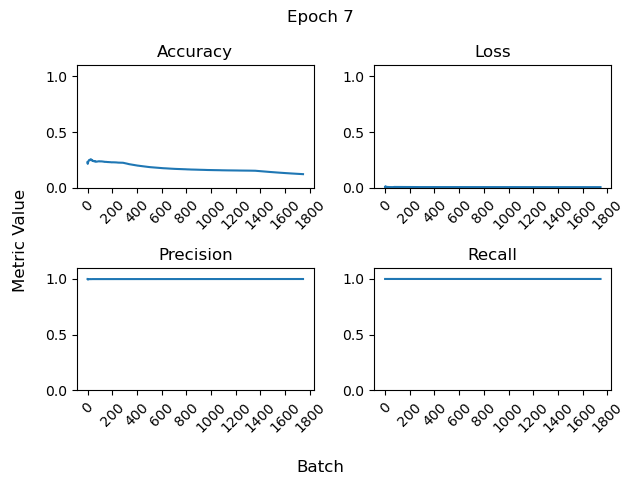
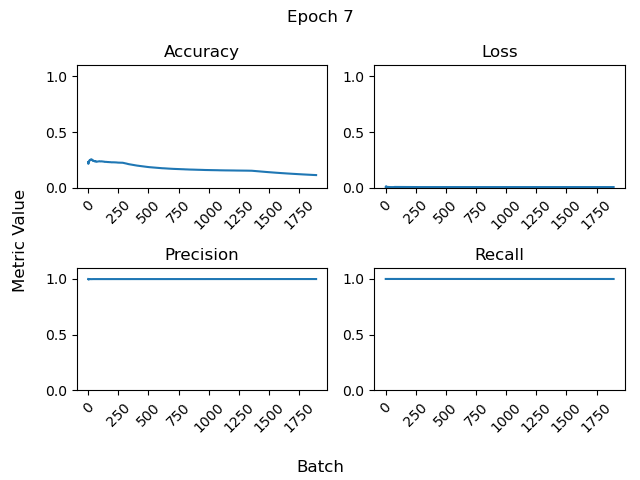
tilting x label

diff --git a/ShapeDNN/getPerBatchMetrics.py b/ShapeDNN/getPerBatchMetrics.py
@@ -91,8 +91,8 @@ for epoch in range(len(Acc)):
 	fig.suptitle('Epoch '+str(epoch))
 	plt.tight_layout()
 
-	model_folder = '/home/yibei/Projects/nucleosome_occupancy/ShapeDNN/train_run' + str(sys.argv[1])+'/'
-	fig_name="./batchwise_model_metrics_epoch_"+str(epoch)+".png"
+	#model_folder = '/home/yibei/Projects/nucleosome_occupancy/ShapeDNN/train_run' + str(sys.argv[1])+'/'
+	fig_name="./train_run"+str(sys.argv[1])+"/batchwise_model_metrics_epoch_"+str(epoch)+".png"
 	print("saving figure to:")
 	print(fig_name)
 	plt.savefig(fig_name)
